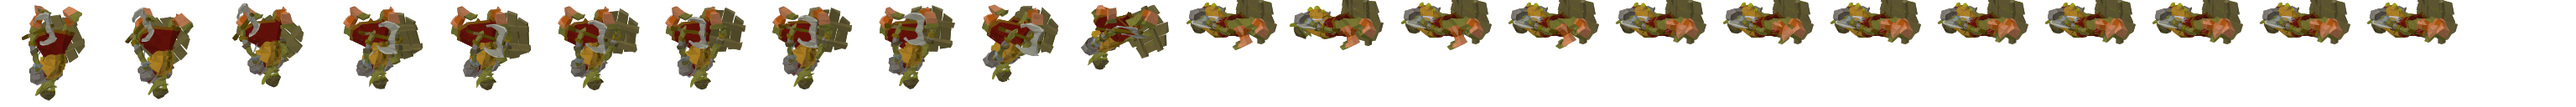
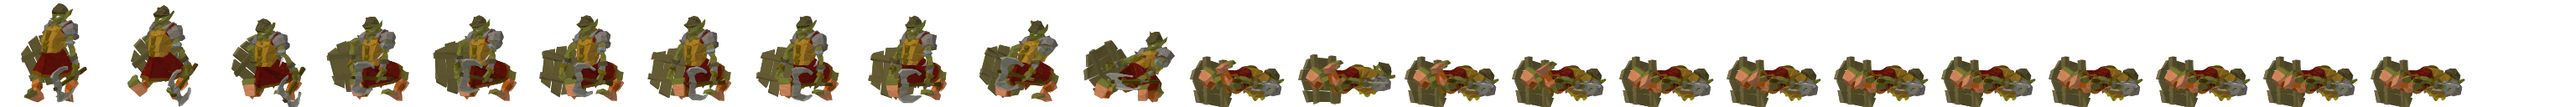
fix(enemies): un-flip goblin (negate animation Y) + bump on-map size
loadAnimation yields vertices with Y negated vs the static model space,
so the baked goblin rendered upside down. Negate Y back in the bake (and
add a per-target `mirror` so the goblin faces its rightward travel
direction); re-bake the clips. Also scale animated enemies a touch larger
on the map (size * 1.32) so they read better.

diff --git a/lib/game/core/renderer.ts b/lib/game/core/renderer.ts
@@ -474,7 +474,7 @@ export class GameRenderer {
         const img = this.e.images.get(animKey)!;
         const elapsed = (d.maxLife - d.life); // 0 → maxLife
         const fi = clipFrame(deathClip, elapsed);
-        const ds = (d.isBoss ? 60 : 30) * (d.renderScale ?? 1) / 0.88;
+        const ds = (d.isBoss ? 60 : 30) * (d.renderScale ?? 1) * 1.32; // match drawEnemies
         ctx.save();
         ctx.globalAlpha = Math.min(1, t / 0.25); // hold, then fade in the last 25%
         ctx.translate(d.x, d.y);
@@ -716,9 +716,9 @@ export class GameRenderer {
         const elapsed = hurting ? HURT_SECONDS - (e.hurtAnim ?? 0) : e.animTime ?? 0;
         const fi = clipFrame(clip, elapsed);
         const fw = animSet.frameW, fh = animSet.frameH;
-        // The baked creature fills ~88% of its cell (6% margin/side); scale the
-        // draw box up so it reads at the same size as the static sprites.
-        const ds = size / 0.88;
+        // The baked creature fills ~88% of its cell (6% margin/side); scale up to
+        // undo that, plus a touch more so the model reads a bit larger on the map.
+        const ds = size * 1.32;
         ctx.save();
         ctx.translate(e.x + shx, e.y + shy);
         if (movingLeft) ctx.scale(-1, 1);
